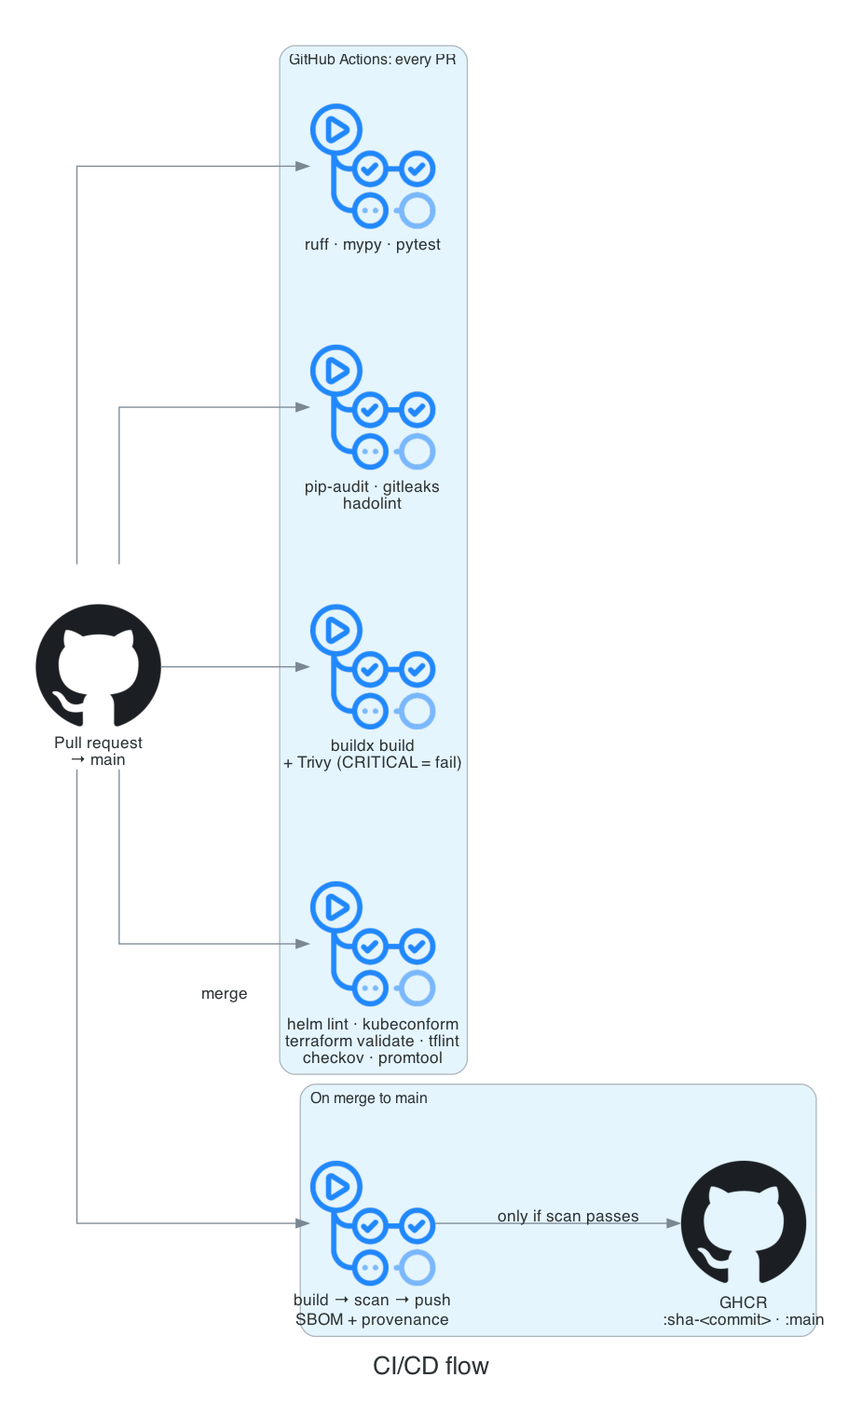
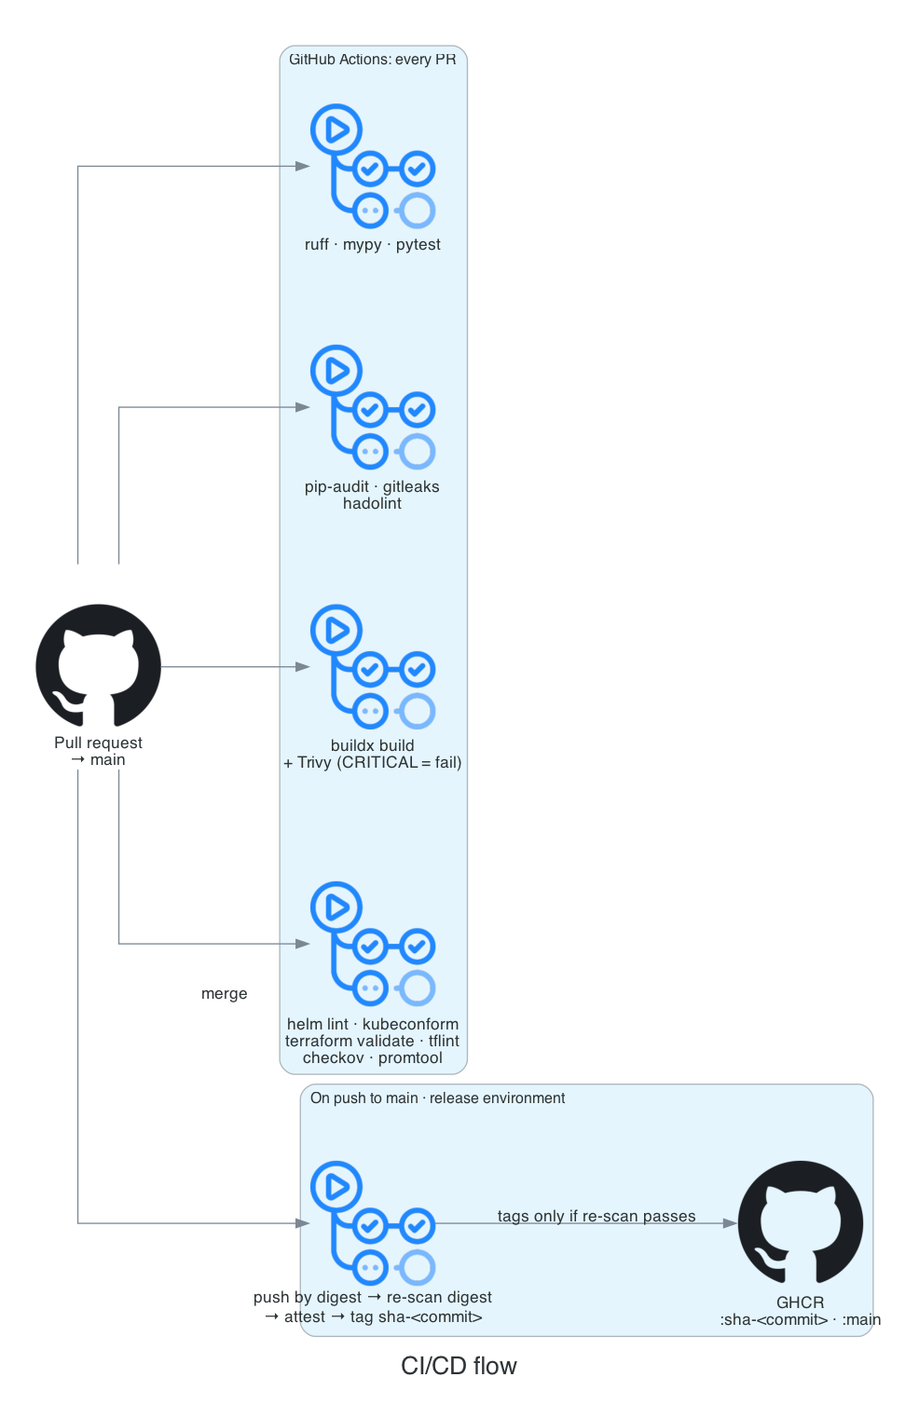
Post-merge review: fail-closed publish, runbook drain steps, doc consistency (#8)
## Problem
After P1–P5 were merged, three independent passes reviewed the whole
repo: Codex, a cold cross-part consistency reviewer, and an end-to-end
run on the local stack. This PR fixes what they confirmed.
- **Two publish-job defects.** A registry outage could overwrite an
immutable `sha-` tag. A failed attestation could never be retried.
- **Runbook steps that don't work as written.**
- **Documentation that no longer matched the merged code.**

## Assumptions
- Guardrail files are out of scope here: `.claude/`, CODEOWNERS,
`.pre-commit-config.yaml`, workflow `permissions:`. Per AGENTS.md,
changes to them get their own PR. Open items for that PR are listed
below.
- `docs/PLAN.md` stays the plan of record. Changes are added as "Changed
during delivery" notes instead of rewriting the original plan.

## Decisions & trade-offs
- **Fail closed when checking for an existing image.** Before, any
failed `imagetools inspect` (auth, rate limit, outage) counted as "not
published", which led to a rebuild and an **overwritten `sha-<commit>`
tag**. Now only "not found" / "manifest unknown" means absent; any other
error fails the publish job.
- **Attest before tagging.** Before, the job tagged and then attested.
If attestation failed, a re-run reused the tag and skipped signing for
good. Now the order is push by digest → scan → attest → tag, so an
existing `sha-` tag always means scanned and signed.
- **terraform.yaml:** matrix roots go through `env:` instead of inline
[…]

diff --git a/docs/architecture/generate_diagrams.py b/docs/architecture/generate_diagrams.py
@@ -81,7 +81,7 @@ def data_flow() -> None:
         users = Users("Client")
         alb = ALB("ALB")
 
-        with Cluster("Kubernetes namespace tdb-bookings"):
+        with Cluster("Kubernetes namespace tdb-prod"):
             svc = Service("Service")
             pod = Pod("tdb-bookings pod\nFastAPI")
             k8s_secret = Secret("Secret\nDATABASE_URL")
@@ -114,18 +114,18 @@ def network_flow() -> None:
         internet = Users("Internet")
         igw = InternetGateway("IGW")
 
-        with Cluster("Public subnets · route 0.0.0.0/0 → IGW"):
-            alb = ALB("sg-alb\nin: 443 from 0.0.0.0/0")
+        with Cluster("Public subnets 10.0.0.0/22 · route 0.0.0.0/0 → IGW"):
+            alb = ALB("ALB + its SG\n(platform, outside P4)")
             nat = NATGateway("NAT GW (one per AZ)")
 
         with Cluster("Private app subnets · route 0.0.0.0/0 → NAT in same AZ"):
-            pod = Pod("sg-app\nin: 8080 from sg-alb only")
+            pod = Pod("pod (sg-app: egress only)\nNetworkPolicy in: 8080\nfrom 10.0.0.0/22 only")
 
         with Cluster("Private DB subnets · local routes only, no internet path"):
             rds = RDSPostgresqlInstance("sg-db\nin: 5432 from sg-app only\nforce_ssl=1, not public")
 
         internet >> Edge(label="443") >> igw >> alb
-        alb >> Edge(label="8080") >> pod
+        alb >> Edge(label="8080 (SG rule added by platform)") >> pod
         pod >> Edge(label="5432 TLS", color="darkgreen") >> rds
         pod >> Edge(label="egress (image pulls, AWS APIs)", style="dashed") >> nat >> igw
         internet >> Edge(label="blocked: no route, no SG rule", color="red", style="dashed") >> rds
@@ -144,12 +144,12 @@ def cicd_flow() -> None:
                 "helm lint · kubeconform\nterraform validate · tflint\ncheckov · promtool"
             )
 
-        with Cluster("On merge to main"):
-            publish = GithubActions("build → scan → push\nSBOM + provenance")
+        with Cluster("On push to main · release environment"):
+            publish = GithubActions("push by digest → re-scan digest\n→ attest → tag sha-<commit>")
             ghcr = Github("GHCR\n:sha-<commit> · :main")
 
         repo >> [quality, sec, image, iac]
-        repo >> Edge(label="merge") >> publish >> Edge(label="only if scan passes") >> ghcr
+        repo >> Edge(label="merge") >> publish >> Edge(label="tags only if re-scan passes") >> ghcr
 
 
 if __name__ == "__main__":

diff --git a/docs/PLAN.md b/docs/PLAN.md
@@ -14,10 +14,10 @@ tdb-devops-handson/
 │   └── metrics.py                    #   Prometheus instrumentation             (P5)
 ├── tests/                            # pytest
 ├── Dockerfile, .dockerignore         # production image                          (P1)
-├── compose.yaml                      # local stack: app + postgres (+ prometheus) (P1, P5)
+├── compose.yaml                      # local stack: app + prometheus (no postgres) (P5)
 ├── .github/
 │   ├── pull_request_template.md      #                                           (setup)
-│   ├── dependabot.yml                # actions, uv, docker base image            (P2)
+│   ├── dependabot.yml                # actions, uv, docker base image, terraform, compose (P2)
 │   └── workflows/
 │       ├── ci.yaml                   # lint, types, tests, image build, scans, GHCR publish (P2)
 │       ├── helm.yaml                 # helm lint, template, kubeconform          (P3)
@@ -53,7 +53,7 @@ tdb-devops-handson/
 
 | Requirement | Design |
 |---|---|
-| Production-fit image | Multi-stage: `builder` installs the locked deps with `uv sync --frozen --no-dev` into `/app/.venv`; `runtime` copies only the venv and `app/`. No compilers, no uv, no tests in the final image. |
+| Production-fit image | Multi-stage: `builder` installs the locked deps with `uv sync --locked --no-dev` into `/app/.venv`; `runtime` copies only the venv and `app/`. No compilers, no uv, no tests in the final image. |
 | Small and safe | `python:3.13-slim` pinned **by digest**. Non-root UID/GID `10001`, no shell login, `PYTHONDONTWRITEBYTECODE`, works with a read-only root filesystem. Image size measured and stated in the PR. |
 | Same image everywhere | No env-specific build args. Everything from env vars at runtime. |
 | Reports health | `HEALTHCHECK` using the image's own Python (`urllib`), so no curl is added. Kubernetes uses its own probes (P3). |
@@ -68,11 +68,15 @@ source) vs Chainguard (near-zero CVEs, but only the `latest` tag is free, so it 
 Local proof: `docker build`, `docker run -e PORT=…`, `curl /health`, `docker inspect` (User, Health status, Size),
 container started with `--read-only --cap-drop ALL`.
 
+**Changed during delivery:** deps install with `uv sync --locked` (fails if `uv.lock` is stale) instead of `--frozen`
+(which would silently build from a stale lock). `compose.yaml` was not added in P1; it arrived in P5 as app +
+Prometheus only. The service runs on sample data, so there is no local postgres.
+
 ## P2: CI pipeline (`feature/p2-ci-pipeline`)
 
 `ci.yaml`, triggered on `pull_request` and `push` to `main`:
 
-1. **quality**: `uv sync --frozen`, ruff, mypy, pytest with coverage. uv cache enabled.
+1. **quality**: `uv sync --locked`, ruff, mypy, pytest with coverage. uv cache enabled.
 2. **security (code)**: `pip-audit` on the lock (dependency CVEs), gitleaks (committed secrets), hadolint (Dockerfile).
 3. **image**: buildx build with the GitHub Actions layer cache (`cache-from/to: type=gha`), load locally, then
    **Trivy** image scan:
@@ -86,6 +90,15 @@ container started with `--read-only --cap-drop ALL`.
 
 Hardening: least-privilege `permissions:` per job, actions pinned by commit SHA, `concurrency` cancels superseded PR
 runs. Dependabot keeps actions, Python deps and the base image digest current.
+
+**Changed during delivery:** publishing is not a step in the image job. The `image` job builds and gates every run
+(any CRITICAL, including unfixed, fails; CRITICAL/HIGH/MEDIUM SARIF to code scanning, non-blocking). A separate
+`publish` job runs only on pushes to `main`, needs `image`, and runs in the `release` environment (the only job with
+`packages: write`, `id-token: write`, `attestations: write`). It reuses the image if `sha-<commit>` already exists,
+otherwise pushes by digest (untagged), re-scans that exact digest with a fresh Trivy DB, attests build provenance
+(SBOM + provenance attached by buildx), then tags `sha-<commit>` (never overwritten) and moves `main` only if the
+commit is still the head of `main`. Install step is `uv sync --locked`. Dependabot later also covers the Terraform
+roots and the `prom/prometheus` pin in `compose.yaml`.
 
 ## P3: Helm chart (`feature/p3-helm-chart`)
 
@@ -104,6 +117,12 @@ CI (`helm.yaml`, every PR): `helm lint --strict` and `helm template` for dev and
 `kubeconform -strict -summary` against a pinned Kubernetes version.
 Local proof (optional item, will do): kind cluster, `helm upgrade --install` with prod values, rollout with zero failed
 requests during an upgrade, `kubectl drain` with the PDB holding.
+
+**Changed during delivery:** the PDB is `maxUnavailable: 1` and the chart fails to render if it is not lower than the
+minimum replica count. With `config.appEnv=prod` the chart refuses a mutable image: `image.digest`, or
+`image.tag=sha-<40 hex>` (unless `image.allowMutableTag` is set). The prod NetworkPolicy admits ingress only from the
+public subnets `10.0.0.0/22` (ALB) and the `monitoring` namespace, and allows egress 5432 only to the DB subnets
+`10.0.20.0/22`, not the whole VPC (with the VPC CNI every pod has a VPC IP).
 
 ## P4: Terraform for AWS (`feature/p4-terraform-aws`)
 
@@ -128,7 +147,8 @@ finishes in ≤ 1 s. Error budget = 0.1%.
 - **Metrics** (`prometheus_client`, `/metrics`): histogram `http_request_duration_seconds{method,route,status_class}`
   with a bucket exactly at `1.0`. Labelled by route *template* (not raw path) to keep cardinality bounded. One metric
   gives both parts of the SLI:
-  `good = rate(bucket{route="/bookings",le="1",status_class!="5xx"})`, `total = rate(count{route="/bookings"})`.
+  `good = rate(bucket{route=~"/bookings(/.*)?",le="1.0",status_class!="5xx"})`,
+  `total = rate(count{route=~"/bookings(/.*)?"})`. Buckets are inclusive, so "under 1 s" is measured as ≤ 1 s.
 - **Recording rules**: error ratio over 5m, 30m, 1h, 2h, 6h, 1d, 3d, 30d.
 - **Alerts** (multi-window, multi-burn-rate, Google SRE Workbook):
 
@@ -140,12 +160,21 @@ finishes in ≤ 1 s. Error budget = 0.1%.
   | `BookingsErrorBudgetSlowBurn` | 1× | 3d and 6h | 10% in 3 d | ticket |
   | `BookingsErrorBudgetLow` | n/a | 30d | > 75% of the month's budget gone | ticket |
   | `BookingsMetricsAbsent` | n/a | 10m | no data = no SLO alerts, so this is a page | page |
+  | `BookingsNoTraffic` | n/a | 15m rate = 0 for 30m, had traffic in the last 1d | 0/0 = NaN silences burn alerts | ticket |
 
 - Every alert has `runbook_url` → `docs/runbooks/<alert>.md`. Full runbook written for `BookingsErrorBudgetFastBurn`
   (what it means, how to check, what to do, escalation); short stubs for the others.
 - CI (`monitoring.yaml`): `promtool check rules` and `promtool test rules` (unit tests that feed synthetic series and
   assert each alert fires / stays quiet), run from the pinned `prom/prometheus` image.
 - Local proof: compose stack with app + Prometheus, load generated, rules loaded and visible in Prometheus.
+
+**Changed during delivery:** the SLI covers every `/bookings` route (`route=~"/bookings(/.*)?"`) and reads the
+`le="1.0"` bucket (≤ 1 s). The good-request numerator is zero-filled so a total outage (all 5xx) still yields a ratio.
+`BookingsErrorBudgetFastBurn` pages only with at least 100 requests in the last hour (below that, the ticket alerts
+catch it); `for:` is 2m (fast), 15m (slow), 1h (budget low), 10m (absent), 30m (no traffic). `BookingsNoTraffic`
+(ticket) was added because no booking traffic makes every ratio NaN while the series still exist, so neither the burn
+alerts nor `BookingsMetricsAbsent` would fire. Every alert has a runbook. `compose.yaml` (app + Prometheus, no
+postgres) belongs to P5.
 
 ## Working method (agents)
 

diff --git a/charts/tdb-bookings/README.md b/charts/tdb-bookings/README.md
@@ -59,7 +59,9 @@ The pod gets it through `env[].valueFrom.secretKeyRef`, so the value goes from t
 passes through Helm, a values file or git. The schema also refuses `DATABASE_URL` in `config.extraEnv`.
 
 **Real environments:** External Secrets Operator syncs the RDS credentials that AWS Secrets Manager generates (P4)
-into that Secret. ESO reads Secrets Manager with an IRSA role that can only `GetSecretValue` on that one secret.
+into that Secret. ESO reads Secrets Manager with an IRSA role that has only `secretsmanager:GetSecretValue` on that one
+secret (`db_master_secret_arn` output) and `kms:Decrypt` on the customer-managed key the secret is encrypted with
+(`db_kms_key_arn` output); without the second permission the read fails.
 Example (documentation only, not a chart template: the ExternalSecret belongs to the platform, and the chart must
 also work with any other way of creating the Secret):
 
@@ -80,13 +82,17 @@ spec:
     template:
       engineVersion: v2
       data:
-        DATABASE_URL: "postgresql://{{ .username }}:{{ .password | urlquery }}@<rds-endpoint>:5432/bookings?sslmode=require"
+        DATABASE_URL: "postgresql://{{ .username }}:{{ .password | urlquery }}@<rds-endpoint>:5432/bookings?sslmode=verify-full&sslrootcert=<path-to-rds-ca-bundle>"
   data:
     - secretKey: username
       remoteRef: { key: <rds-master-user-secret-arn>, property: username }
     - secretKey: password
       remoteRef: { key: <rds-master-user-secret-arn>, property: password }
 ```
+
+`sslmode=verify-full` checks the server certificate and hostname, so the client needs the RDS CA bundle
+(`rds-ca-rsa2048-g1`, see `infra/terraform/README.md`) at the `sslrootcert` path. The chart does not ship or mount it;
+provide it in the image or through a volume when the service starts using the database.
 
 A rotated password reaches running pods on the next rollout (env vars are read at start): run
 `kubectl rollout restart`, or add Stakater Reloader to restart on Secret change.
@@ -143,10 +149,11 @@ Resources: CPU and memory requests, a memory limit, **no CPU limit** by default.
 which shows up as tail latency even when the node has idle CPU; the request already guarantees the pod its share and
 is what the HPA measures against. Set `resources.limits.cpu` if a namespace policy requires one.
 
-NetworkPolicy (prod): ingress only to the `http` port, only from the VPC CIDR (ALB with IP targets), the `monitoring`
-namespace (Prometheus) and pods labelled `tdb-bookings/client: <fullname>` (the `helm test` pod). Egress only to
-cluster DNS and PostgreSQL 5432 inside the VPC. `10.0.0.0/16` in `values-prod.yaml` must equal the VPC CIDR in
-`infra/terraform`.
+NetworkPolicy (prod): ingress only to the `http` port, only from the prod public subnets `10.0.0.0/22` (the ALB, IP
+targets), the `monitoring` namespace (Prometheus) and pods labelled `tdb-bookings/client: <fullname>` (the `helm test`
+pod). Egress only to cluster DNS and PostgreSQL 5432 in the prod DB subnets `10.0.20.0/22`. Not the VPC CIDR: with the
+VPC CNI every pod has a VPC IP, so `10.0.0.0/16` would admit every pod in the cluster. Both ranges in
+`values-prod.yaml` must cover the public and DB subnet CIDRs in `infra/terraform/envs/prod`.
 
 ## Values
 
@@ -219,11 +226,14 @@ helm upgrade --install tdb-bookings charts/tdb-bookings -n tdb-prod \
   -f charts/tdb-bookings/values-prod.yaml \
   --set image.repository=tdb-bookings --set image.tag=local --set image.allowMutableTag=true \
   --wait --timeout 5m
+# Re-running this after a rebuild does NOT roll the pods: the tag `local` and the pod template are unchanged,
+# so Kubernetes keeps the old image. After every `docker build` + `kind load`, restart explicitly:
+kubectl -n tdb-prod rollout restart deployment/tdb-bookings
 kubectl -n tdb-prod rollout status deployment/tdb-bookings
 # The HPA (not the Deployment) sets the count to 3, one sync after install:
 kubectl -n tdb-prod wait deployment/tdb-bookings --for=jsonpath='{.status.availableReplicas}'=3 --timeout=2m
 kubectl -n tdb-prod get pods -o wide            # 3 pods, one per worker
-kubectl -n tdb-prod get hpa,pdb                 # HPA min 3 / max 10; PDB min available 2, allowed disruptions 1
+kubectl -n tdb-prod get hpa,pdb                 # HPA min 3 / max 10; PDB max unavailable 1, allowed disruptions 1
 helm -n tdb-prod test tdb-bookings
 ```
 

diff --git a/docs/adr/0001-container-base-image.md b/docs/adr/0001-container-base-image.md
@@ -36,23 +36,27 @@ Use `python:3.13.18-slim` (Debian 13 "trixie"), pinned by multi-arch index diges
 runtime stage. Build the venv in the builder with uv (`ghcr.io/astral-sh/uv:0.12.5`, also pinned by digest) and copy
 only the venv and `app/` into the runtime stage.
 
-Two hardening steps in the runtime stage, both driven by the Trivy scan:
+Hardening steps in the runtime stage (the first two driven by the Trivy scan):
 
 1. `apt-get install --only-upgrade zlib1g`: the pinned digest predates the Debian security build that fixes two
    HIGH zlib CVEs (CVE-2026-76844, CVE-2026-85091). Remove the step once a newer base digest carries the fix.
 2. Delete `pip` and `ensurepip`. uv installs everything at build time; an installer has no job at run time, and
    pip's vendored `urllib3`, `msgpack` and `setuptools` accounted for all 5 HIGH Python-package findings.
+3. Strip setuid/setgid bits from every file (`su`, `passwd`, `mount`, …), added in review, so nothing in the image
+   can gain privileges even where a runtime forgets `--cap-drop ALL` / `no-new-privileges`.
 
 ## Consequences
 
-- Image: **228 MB uncompressed (`docker image inspect` 227,754,942 bytes), 49.2 MB compressed content.** The base
-  is 202 MB of that; the app's venv is 19.5 MB and the code 29 kB. Deleting pip in a later layer hides it but does not
+- Image: **230 MB uncompressed, ~49 MB compressed content** (README.md). It was 228 MB (227,754,942 bytes) when first
+  measured, before the review hardening of the runtime layer (setuid strip, pip-removal check). The base is 202 MB of
+  that; the app's venv is 19.5 MB and the code 29 kB. Deleting pip in a later layer hides it but does not
   shrink the base layer, so the size gain from that step is nil; the point is that the scanner and an attacker no
   longer find an installer.
 - Trivy (CRITICAL,HIGH): **0 CRITICAL, 47 HIGH, all in Debian OS packages with no fix available** (46 `affected`,
   1 `fix_deferred`; 11 unique CVEs in util-linux, ncurses, sqlite, systemd libs, libacl, perl-base). 0 Python-package
-  findings. With `--ignore-unfixed` the scan is clean, so CI can gate on fixable CRITICAL/HIGH without a permanent
-  allow-list.
+  findings. CI (`.github/workflows/ci.yaml`) gates on **any CRITICAL, including unfixed ones** (`--ignore-unfixed` is
+  deliberately not set), both on every build and again on the exact pushed digest before publishing. HIGH and MEDIUM
+  are reported to code scanning as SARIF and do not block, so the 47 unfixable OS HIGHs need no permanent allow-list.
 - The remaining OS CVEs are in Debian `Essential` packages that cannot be removed cleanly. The service does not invoke
   them, runs as UID 10001 with `--cap-drop ALL`, `no-new-privileges` and a read-only root filesystem, which removes
   the usual exploitation paths (setuid binaries, writing to the filesystem).

diff --git a/docs/architecture/README.md b/docs/architecture/README.md
@@ -35,9 +35,9 @@ promotes the standby and the DNS endpoint follows it (typically 60–120 s).
 
 | From | To | Port | Allowed by |
 |---|---|---|---|
-| Internet | ALB | 443 | `sg-alb` ingress 0.0.0.0/0, public subnets route to IGW |
-| ALB | pods | 8080 | `sg-app` ingress from `sg-alb` only |
-| pods | RDS | 5432 (TLS required) | `sg-db` ingress from `sg-app` only; `rds.force_ssl = 1` |
+| Internet | ALB | 443 | ALB security group (platform, outside P4: created by the AWS Load Balancer Controller); public subnets route to IGW |
+| ALB | pods | 8080 | Pod side: the chart's prod NetworkPolicy admits `http` only from the public subnets `10.0.0.0/22` (plus the `monitoring` namespace). AWS side: the ALB→workload SG rule is added by the platform that owns the ALB; Terraform's `sg-app` has egress rules only (443 out, 5432 to the DB subnets) |
+| pods | RDS | 5432 (TLS required) | `sg-db` ingress from `sg-app` only; NetworkPolicy egress 5432 only to the DB subnets `10.0.20.0/22`; `rds.force_ssl = 1` |
 | pods | Internet (image pulls, AWS APIs) | 443 | private-app route `0.0.0.0/0 → NAT` in the same AZ |
 | Internet | RDS | any | **Blocked.** DB subnets have no internet route, `publicly_accessible = false`, no SG rule |
 | RDS | Internet | any | **Blocked.** No route out of the DB subnets |
@@ -102,6 +102,8 @@ flowchart LR
 
 ![CI/CD flow](cicd-flow.png)
 
-Every PR runs all checks. On merge to `main`, the image is built, scanned, and only pushed to GHCR if Trivy finds no
-CRITICAL vulnerability. Tag `sha-<full commit sha>` plus the OCI `revision` label and a signed build-provenance
-attestation tie every image to the exact commit.
+Every PR runs all checks, including an image build and a Trivy gate (any CRITICAL fails). On a push to `main`, a
+separate `publish` job in the `release` environment pushes the image to GHCR by digest (untagged), re-scans that exact
+digest with Trivy, attests build provenance, then tags it `sha-<full commit sha>` (never overwritten) and moves `main`
+only if the commit is still the head of `main`. The tag, the OCI `revision` label and the signed attestation tie every
+image to the exact commit.

diff --git a/docs/runbooks/BookingsErrorBudgetFastBurn.md b/docs/runbooks/BookingsErrorBudgetFastBurn.md
@@ -195,8 +195,17 @@ Work top-down; stop at the first branch that matches.
    - OOMKilled → the memory limit is too low for current load or there is a leak. Roll back if it started with a
      release; otherwise raise `resources.limits.memory` through a values change and a normal release.
    - Image pull errors → registry or tag problem; roll back to the last revision that pulled.
-   - Only pods on one node or one zone are bad → cordon that node (`kubectl cordon <node>`) so pods reschedule;
-     replicas are spread across zones, so the rest keep serving.
+   - Only pods on one node or one zone are bad → move them off it. `cordon` alone only stops *new* pods landing
+     there; the bad pods keep running. Drain the service's pods, which the PDB (`maxUnavailable: 1`) evicts one at a
+     time while replacements become Ready elsewhere:
+     ```bash
+     kubectl cordon <node>
+     kubectl drain <node> --ignore-daemonsets --delete-emptydir-data \
+       --pod-selector app.kubernetes.io/name=tdb-bookings
+     kubectl -n "$NS" rollout status deployment/tdb-bookings
+     kubectl -n "$NS" get pods -l app.kubernetes.io/name=tdb-bookings -o wide   # none left on <node>
+     ```
+     Replicas are spread across zones, so the rest keep serving meanwhile. Uncordon once the node is fixed.
 
 3. **Errors are low but requests are slow** (step 1 says latency).
    - CPU near the limit and the HPA at `maxReplicas` → the service is under-scaled for the traffic. Raise

diff --git a/docs/adr/0003-helm-chart.md b/docs/adr/0003-helm-chart.md
@@ -46,4 +46,6 @@ of safe defaults, and a `values.schema.json` that rejects bad input at `helm lin
 - Deployers must create the DB Secret before installing prod values (pods stay in `CreateContainerConfigError`
   otherwise; NOTES.txt says so).
 - With the HPA owning `replicas`, a brand-new Deployment starts at 1 pod for one HPA sync (~15 s).
-- The prod NetworkPolicy uses the VPC CIDR (`10.0.0.0/16`), which must stay equal to the Terraform VPC CIDR.
+- The prod NetworkPolicy admits ingress only from the prod public subnets (`10.0.0.0/22`, the ALB) and allows egress
+  5432 only to the prod DB subnets (`10.0.20.0/22`), not the whole VPC (`10.0.0.0/16`): with the VPC CNI every pod has
+  a VPC IP, so the VPC CIDR would admit every pod. Both ranges must keep covering the Terraform subnet CIDRs.

diff --git a/infra/terraform/README.md b/infra/terraform/README.md
@@ -17,6 +17,7 @@ infra/terraform/
 │   └── postgres/            RDS PostgreSQL, sg-db, subnet group, parameter group, KMS key, log groups
 ├── envs/
 │   ├── dev/                 root module: 2 AZs, 1 NAT, single-AZ db.t4g.micro         state key tdb-bookings/dev/…
+│   │   └── tests/           plan-time tests (mocked AWS): dev.tftest.hcl
 │   └── prod/                root module: 3 AZs, NAT per AZ, Multi-AZ db.m7g.large     state key tdb-bookings/prod/…
 │       └── tests/           plan-time tests (mocked AWS): prod.tftest.hcl, guards.tftest.hcl
 └── tests/mocks/             shared mock data for `terraform test` (no credentials, no API calls)

diff --git a/docs/runbooks/BookingsErrorBudgetSlowBurn.md b/docs/runbooks/BookingsErrorBudgetSlowBurn.md
@@ -49,7 +49,8 @@ Set `NS=tdb-prod` (or `tdb-dev`; Helm release `tdb-bookings`) for the commands b
 - Caused by a release → revert or fix forward through a normal PR.
 - Latency creeping up → profile the slow route, check DB query plans / Performance Insights, review resource requests
   and HPA limits.
-- One bad pod or node → delete the pod or cordon the node.
+- One bad pod → delete it (the Deployment replaces it). One bad node → cordon **and drain** it with
+  `--pod-selector app.kubernetes.io/name=tdb-bookings` (cordon alone leaves the pods there); see the fast-burn runbook.
 - If it gets worse it becomes `BookingsErrorBudgetFastBurn`, which pages.
 
 ## Verify it is resolved

diff --git a/README.md b/README.md
@@ -114,7 +114,7 @@ HPA, PodDisruptionBudget, NetworkPolicy, optional Ingress, a `helm test`, and a 
 |---|---|---|
 | Replicas | 1 | HPA 3 → 10 (CPU 70%, memory 80%) |
 | Disruptions | none | PDB `maxUnavailable: 1`, spread across zones and nodes |
-| Image | `main` tag | must be pinned: `image.digest` or `image.tag=sha-<commit>` (schema enforces) |
+| Image | `main` tag | must be pinned: `image.digest` or `image.tag=sha-<commit>` (the schema rejects no image; a template guard rejects a mutable tag such as `main`) |
 
 - **No downtime on release:** `maxUnavailable: 0`, readiness gate on `/health`, `preStop` sleep so the endpoint is
   removed before SIGTERM, `--atomic` rollback.
